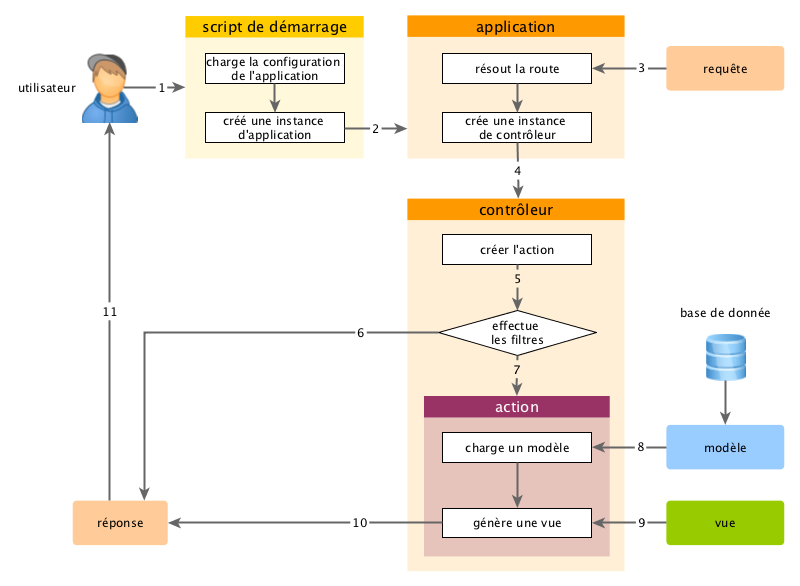
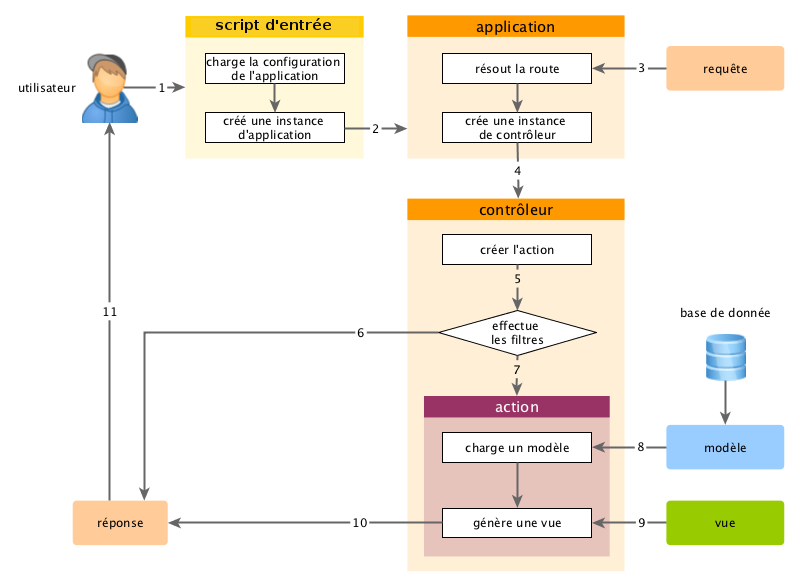
added French runtime-overview.md [skip ci] (#12194)
* Corrections dans concept-aliases.md version fr

* Some correction in intro-upgrade-from.md French version

* some corrections in start-databases.md French version

* added translation of structure-applications.md  French version

* adding source change in translation of concept-alias.md

* adding source change in translation of intro-upgrade-from-v1.md

* update master

* added French runtime-overview.md [skip ci]

* remove image

* changed image [skip ci]

Changed region(s): [[0.2188, 0.0307, 0.4688, 0.0614]]

diff --git a/docs/guide-fr/runtime-overview.md b/docs/guide-fr/runtime-overview.md
@@ -1,0 +1,21 @@
+Vue d'ensemble
+==============
+
+À chaque fois qu'une application Yii prend en charge une requête, elle entreprend un flux de travail similaire. 
+
+1. Un utilisateur effectue une requête auprès du [script d'entrée](structure-entry-scripts.md) `web/index.php`.
+2. Le script d'entrée charge la [configuration](concept-configurations.md) de l'application et crée une instance d'[application](structure-applications.md) pour prendre en charge la requête.
+3. L'application résoud la [route](runtime-routing.md) requise avec l'aide du composant d'application [request](runtime-requests.md).
+4. L'application crée une instance de [contrôleur](structure-controllers.md) pour prendre en charge le requête.
+5. Le contrôleur crée une instance d'[action](structure-controllers.md) et exécute les filtres de l'action.
+6. Si un [filtre](structure-filters.md) échoue, l'exécution de l'action est annulée.
+7. Si tous les filtres réussissent l'action est exécutée.
+8. L'action charge un [modèle](structure-models.md) de données, possiblement à partir d'une base de données.
+9. L'action rend une [vue](structure-views.md), en lui passant le modèle de données.
+10. Le résultat rendu est retourné au composant d'application [response](runtime-responses.md).
+11. Le composant *response* envoye le résultat rendu au navigateur de l'utilisateur. 
+Le diagramme ci-dessous illustre comment une application prend une requête en charge. 
+
+![Cycle de vie d'une requête](images/request-lifecycle.png)
+
+Dans cette section, nous décrivons en détails comment se déroulent quelques unes de ces étapes. 
